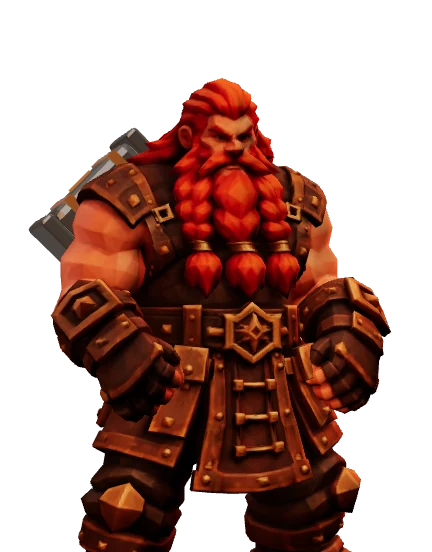
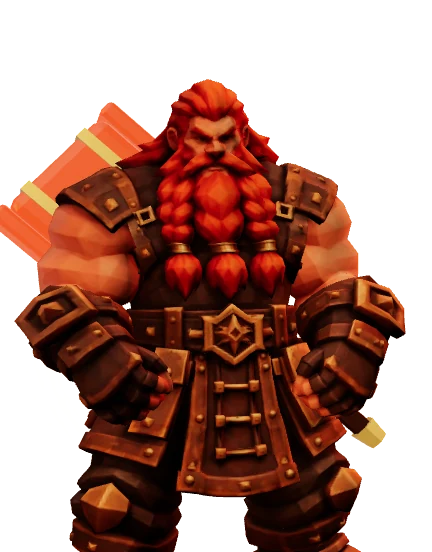
La musica de l'entrada calla en sortir o bloquejar; la foto fixa del herrero refeta del 3D (fora la maca vella); corregir o esborrar un entreno els tres primers dies; Social: la XP total en lloc d'este ano, el yunque explicat i tots els yunques amb el que costa; Tu clan amb el yunque; celebracio en 

diff --git a/index.html b/index.html
@@ -616,7 +616,7 @@ button.paquet{width:100%;color:var(--crema);text-align:left;font:inherit}
 .conf-nom{font-family:var(--display);font-size:24px;overflow-wrap:anywhere}
 .conf-av{width:82px;height:82px;border-radius:50%;object-fit:cover;background:#15110e;border:2px solid #c57b37}
 .clan-perfil{justify-self:start;padding:6px 0;border:0;background:none;color:var(--crema);font:700 16px var(--text);text-align:left;text-decoration:underline;text-decoration-color:rgba(255,181,94,.4);text-underline-offset:4px}
-.mini-clan{width:100%;border:0;background:none;color:var(--crema);font:inherit;cursor:pointer}
+.mini-clan{width:100%;color:var(--crema);font:inherit;cursor:pointer}
 .mini-clan .gran{margin:auto 0 0}
 .mini-clan .fantasma .gran{opacity:.25;font-size:44px;margin:auto}
 .seg-llast{display:inline-grid;grid-template-columns:auto auto;margin-top:8px;border:1px solid var(--bronze-fil);border-radius:8px;overflow:hidden}
@@ -626,6 +626,35 @@ button.paquet{width:100%;color:var(--crema);text-align:left;font:inherit}
 .suport{display:grid;gap:8px;margin-top:14px;padding-top:14px;border-top:1px solid rgba(197,123,55,.25)}
 .suport p{margin:0}
 .suport .btn{justify-self:start}
+.reg-ses{width:100%;border:0;background:none;color:inherit;font:inherit;text-align:left;cursor:pointer}
+.reg-ses svg{width:18px;height:18px;transform:rotate(-90deg);color:var(--fum)}
+.ses-ej{display:grid;gap:6px;margin-top:12px}
+.ses-ej>b{font-size:15.5px}
+.ses-z{display:inline-block;margin-right:12px;color:var(--fum);font-size:14px}
+.ses-serie{display:grid;grid-template-columns:26px 1fr 14px 1fr 40px;gap:6px;align-items:center}
+.ses-serie .camp input{height:44px;font-size:17px}
+.ses-serie .i{font-family:var(--display);font-weight:900;text-align:center;color:var(--fum)}
+.ses-serie .treu{width:40px;height:40px;border-radius:8px;border:1px solid var(--bronze-fil);background:#0f0d0c;color:var(--fum);display:grid;place-items:center}
+.yunque-boto{padding:0;border:0;background:none;cursor:pointer}
+.perfil-rang small+small{display:block;margin-top:2px}
+.yunques-llista{display:grid;gap:6px}
+.yunque-fila{display:grid;grid-template-columns:48px minmax(0,1fr) auto;gap:10px;align-items:center;padding:6px 8px;border-radius:10px}
+.yunque-fila img{width:48px;height:48px;object-fit:contain;filter:drop-shadow(0 2px 3px rgba(0,0,0,.6))}
+.yunque-fila span{display:grid;gap:1px}
+.yunque-fila small{color:var(--fum);font-size:12.5px;line-height:1.35}
+.yunque-fila.yunque-meu{box-shadow:inset 0 0 0 1px #f0a050;background:rgba(179,32,10,.18)}
+.mini-clan .yunque.mini-y{width:40px;height:40px;margin:6px auto 0}
+.pujada-yunque{position:relative;display:grid;place-items:center;height:210px;margin:10px 0 4px}
+.pujada-yunque img{position:relative;width:190px;height:190px;object-fit:contain;filter:drop-shadow(0 8px 16px rgba(0,0,0,.7));animation:pujaYunque 1.3s cubic-bezier(.2,1.5,.4,1) .25s both}
+.pujada-llum{position:absolute;inset:0;margin:auto;width:240px;height:240px;border-radius:50%;background:radial-gradient(circle,rgba(255,200,90,.75),rgba(255,120,30,.25) 45%,transparent 70%);animation:pujaLlum 1.6s ease-out .2s both}
+@keyframes pujaYunque{0%{transform:scale(.15) rotate(-28deg);opacity:0;filter:brightness(4) drop-shadow(0 0 0 transparent)}55%{transform:scale(1.18) rotate(7deg);opacity:1}100%{transform:scale(1) rotate(0);filter:brightness(1) drop-shadow(0 8px 16px rgba(0,0,0,.7))}}
+@keyframes pujaLlum{0%{transform:scale(.2);opacity:0}40%{opacity:1}100%{transform:scale(1.25);opacity:.55}}
+.pujada-pos{display:flex;align-items:center;justify-content:center;gap:22px;margin:18px 0 8px;font-family:var(--display);font-weight:900}
+.pujada-pos .de{font-size:40px;color:var(--fum);animation:pujaDe .7s ease-out .3s both}
+.pujada-pos .fletxa{flex:none;width:40px;height:24px;color:#f0a050;animation:pujaDe .5s ease-out .6s both}
+.pujada-pos .a{margin-left:10px;font-size:72px;animation:pujaYunque 1.1s cubic-bezier(.2,1.5,.4,1) .75s both}
+@keyframes pujaDe{0%{opacity:0;transform:translateY(12px)}100%{opacity:1;transform:none}}
+@media (prefers-reduced-motion:reduce){.pujada-yunque img,.pujada-llum,.pujada-pos *{animation:none}}
 /* ---- l'or i la botiga ---- */
 /* el comptador d'or, dret: la moneda a dalt i el número a sota, perquè càpiga al racó sense tocar el logo */
 .boto-or{--x:7px;--v:1.5px;position:absolute;left:4px;top:calc(8px + env(safe-area-inset-top,0px));z-index:5;display:grid;justify-items:center;gap:1px;min-width:44px;padding:5px 4px 4px;
@@ -2034,7 +2063,9 @@ const Efectos = (() => {
       volum(amb, 0.22);
       if (amb.paused) { const p = amb.play(); if (p && p.catch) p.catch(() => {}); }
     }
-    return { posa: (m, des) => { posa(m, des); setTimeout(ambient, 700); }, para: () => { para(); ambient(); }, seguent, sona, ambient,
+    // En sortir de l'app o bloquejar el mòbil sense entreno: ni música ni ambient (l'Albert, 26-09-2026 nit)
+    function silenci() { para(); apaga(amb); }
+    return { posa: (m, des) => { posa(m, des); setTimeout(ambient, 700); }, para: () => { para(); ambient(); }, silenci, seguent, sona, ambient,
       hiHa: m => llista(m).length > 0, titol: () => (ordre.length && el && el.src ? titol(ordre[i]) : "") };
   })();
   // L'hàptica. A l'Android, navigator.vibrate. A l'iPhone Safari no en té: des de l'iOS 17.4 un
@@ -3494,6 +3525,13 @@ const YUNQUES = [[0, "madera", "Madera"], [100, "piedra", "Piedra"], [250, "cobr
   [700, "acero", "Acero"], [800, "oro", "Oro"], [880, "obsidiana", "Obsidiana"], [940, "criselefantino", "Criselefantino"], [980, "estelar", "Estelar"]];
 const yunqueDe = p => { if (p == null) return null; let y = YUNQUES[0]; YUNQUES.forEach(t => { if (p >= t[0]) y = t; }); return { id: y[1], nom: y[2], des: y[0] }; };
 const imgYunque = (p, cls = "") => { const y = yunqueDe(p); return y ? `<img class="yunque ${cls}" src="${ACTIUS}yunques/${y.id}.webp" alt="Rango ${y.nom}" title="${y.nom}">` : ""; };
+function fullYunques() {
+  const so = soc(), p = so.yo && so.yo.poder, meu = yunqueDe(p);
+  const seg = p == null ? null : YUNQUES.find(t => t[0] > p);
+  return `<p style="margin-top:0">Tu yunque sale de tu <b>poder</b>: en cada ejercicio comparamos lo que levantas <b>para tu peso</b> (la fuerza relativa) con lo de todos los que lo hacen en KLONK, y el poder es la media de esos puestos, de 0 a 1000. Por eso alguien ligero que levanta mucho para lo que pesa puede estar muy arriba.</p>
+    ${p != null && seg ? `<p class="or" style="margin:0 0 10px"><b>Te faltan ${n0(seg[0] - p)} de poder para ${seg[2]}.</b></p>` : ""}
+    <div class="yunques-llista">${YUNQUES.map(([des, id, nom], k) => `<div class="yunque-fila${meu && meu.id === id ? " yunque-meu" : ""}"><img src="${ACTIUS}yunques/${id}.webp" alt=""><span><b>${nom}</b><small>${des ? `Desde ${des} de poder: más fuerte que ${Math.round(des / 10)} de cada 100 de KLONK, para su peso` : "Al empezar"}</small></span>${meu && meu.id === id ? '<small class="or">El tuyo</small>' : ""}</div>`).join("")}</div>`;
+}
 const AMBITS2 = [["amigos", "Amigos"], ["gimnasio", "Mi gimnasio"], ["ciudad", "Ciudad"], ["provincia", "Provincia"], ["ccaa", "Comunidad"], ["pais", "País"], ["continente", "Continente"], ["mundo", "Mundo"]];
 const GRUPS_R = ["general", "Pecho", "Espalda", "Pierna", "Hombro", "Brazo"];
 const intent = {};
@@ -3522,17 +3560,17 @@ function filaRanking(f, so) {
    nickname, amb sol·licitud i acceptació («no puc buscar el nom i enviar sol·licitud? I que accepti?»). */
 const tabSoc = () => S.ui.socTab || "rank";
 function capSocial(so) {
-  const yo = so.yo, gim = yo && yo.gimnas, dg = diesGym(), any = Stats.diasAno(S);
+  const yo = so.yo, gim = yo && yo.gimnas, dg = diesGym();
   let rang = "";
   if (so.participa && gim) {
     const y = yunqueDe(yo.poder), dif = yo.poder != null && yo.poder_abans != null ? yo.poder - yo.poder_abans : null;
-    rang = `<div class="perfil-rang">${y ? `${imgYunque(yo.poder, "gran")}<span><b class="or">${y.nom}</b><small class="num">Poder ${n0(yo.poder)}${dif ? ` <span class="${dif > 0 ? "puja" : "baixa"}">${dif > 0 ? "+" : ""}${n0(dif)}</span>` : ""}</small></span>`
-      : sessio && sessio.salut ? `<small>Termina un entreno para tener rango de fuerza.</small>`
+    rang = `<div class="perfil-rang">${y ? `<button class="yunque-boto" data-accion="soc-yunques" aria-label="Tu yunque: ${y.nom}. Ver todos">${imgYunque(yo.poder, "gran")}</button><span><b class="or">${y.nom}</b><small class="num">Poder ${n0(yo.poder)}${dif ? ` <span class="${dif > 0 ? "puja" : "baixa"}">${dif > 0 ? "+" : ""}${n0(dif)}</span>` : ""}</small><small>Por tu fuerza para tu peso. <button class="enllac" data-accion="soc-yunques">Ver los yunques</button></small></span>`
+      : sessio && sessio.salut ? `<small>Termina un entreno para tener rango de fuerza. <button class="enllac" data-accion="soc-yunques">Ver los yunques</button></small>`
       : `<small>Sin permiso para guardar tu peso no hay rango de fuerza. <button class="enllac" data-accion="vista" data-v="ajustes">Dar permiso en Ajustes</button></small>`}</div>`;
   }
   return `<div class="panel pad perfil-cap">${avatar((S.personaje || {}).tipo, Stats.experiencia(S).nivel, "gran")}
     <div class="perfil-dades"><b class="perfil-nick">${esc(nomHeroi())}</b>${gim ? `<small class="perfil-gim">${esc(gim.nom)}</small>` : ""}
-      <div class="perfil-fila"><span>${flama(true)}<b class="num">${dg.dies}</b> días de gym</span><span>${flama(any > 0)}<b class="num">${any}</b> este año</span></div></div>${rang}</div>`;
+      <div class="perfil-fila"><span>${flama(true)}<b class="num">${dg.dies}</b> ${dg.dies === 1 ? "día" : "días"} de gym</span><span><b class="num">${n0(Stats.experiencia(S).xp)}</b> XP en total</span></div></div>${rang}</div>`;
 }
 function vistaSocial() {
   const so = soc(), yo = so.yo, gim = yo && yo.gimnas;
@@ -3611,7 +3649,36 @@ function miniClan() {
   const r = rr && rr.yo ? rr : rd && rd.yo ? rd : null;
   if (!rr && !rd) return '<div class="buit">Cargando…</div>';
   if (!r || r.total <= 1) return '<div class="buit">Añade a alguien a tu clan</div>';
-  return `<div class="gran num">${r.yo.pos}.º</div><div class="dada">de ${r.total}, en ${r === rr ? "fuerza" : "días"}</div>`;
+  return `${so.yo && so.yo.poder != null ? imgYunque(so.yo.poder, "mini-y") : ""}<div class="gran num">${r.yo.pos}.º</div><div class="dada">de ${r.total}, en ${r === rr ? "fuerza" : "días"}</div>`;
+}
+// Després d'un entreno: si has pujat de yunque o de lloc al rànquing del clan, una celebració pròpia. Es mira quan el
+// servidor ha tornat el poder nou; si el resum encara és obert, s'espera que es tanqui.
+async function miraPujada(abans) {
+  const yo = await sincronitza(); if (!yo) return;
+  const pujades = [], ya = yunqueDe(abans.poder), yd = yunqueDe(yo.poder);
+  if (yd && (!ya || YUNQUES.findIndex(t => t[1] === yd.id) > YUNQUES.findIndex(t => t[1] === ya.id))) pujades.push({ t: "yunque", y: yd, poder: yo.poder });
+  try {
+    const r = await api("GET", "/ranking?metrica=rango&ambit=amigos&grupo=general");
+    S.social = { ...soc(), rank: { ...soc().rank, "rango|amigos|general": { ...r, at: Date.now() } } };
+    if (abans.pos && r.yo && r.yo.pos < abans.pos && r.total > 1) pujades.push({ t: "clan", de: abans.pos, a: r.yo.pos, total: r.total });
+  } catch (e) {}
+  if (!pujades.length) return;
+  S.ui.pujades = [...(S.ui.pujades || []), ...pujades]; guardar();
+  if (!$("#celebra").innerHTML) mostraPujada();
+}
+function mostraPujada() {
+  const p = (S.ui.pujades || []).shift(); if (!p) return false;
+  guardar();
+  if (p.t === "yunque") {
+    setTimeout(() => { if (!Efectos.suena("cofre")) Efectos.suena("fanfarria"); Efectos.lluvia(1.3); Efectos.vibra([30, 40, 60]); }, 250);
+    celebra(`<div class="gran or entra-gran">¡NUEVO YUNQUE!</div><div class="pujada-yunque"><i class="pujada-llum"></i><img src="${ACTIUS}yunques/${p.y.id}.webp" alt="${p.y.nom}"></div>
+      <div class="gran or" style="font-size:32px">${p.y.nom}</div><div class="sub">Poder ${n0(p.poder)}: tu fuerza para tu peso ha subido de nivel.</div>`, "A LA FRAGUA");
+  } else {
+    setTimeout(() => { Efectos.suena("triar"); Efectos.lluvia(0.8); Efectos.vibra([20, 30, 40]); }, 250);
+    celebra(`<div class="gran or entra-gran">¡SUBES EN TU CLAN!</div><div class="pujada-pos"><span class="num de">${p.de}.º</span><svg class="fletxa" viewBox="0 0 40 24" width="40" height="24" aria-hidden="true"><path d="M2 12h32M24 3l10 9-10 9" fill="none" stroke="currentColor" stroke-width="3.2" stroke-linecap="round" stroke-linejoin="round"/></svg><span class="num or a">${p.a}.º</span></div>
+      <div class="sub">de ${p.total} en fuerza. <button class="enllac" data-accion="inici-clan">Ver el ranking</button></div>`, "A LA FRAGUA");
+  }
+  return true;
 }
 // El buscador del clan (l'Albert, 26-09-2026 nit: «autocompletar i buscar si existeix; s'ha de confirmar que li envies
 // a algú»): mentre escrius, si el nickname existeix i, a sota, els adults amb perfil públic que comencen així. Els menors
@@ -3749,6 +3816,7 @@ async function accioSocial(acc, b) {
       S.ui.socTab = b.dataset.t; S.ui.clanTreu = null; guardar(); render();
       if (b.dataset.t === "clan") { intent.clan = Date.now(); carregaClan(false); }
       return true;
+    case "soc-yunques": obreFull(fullYunques(), "Los yunques"); return true;
     case "soc-tria": S.ui.socTria = true; guardar(); render(); return true;
     case "soc-tria-no": S.ui.socTria = false; guardar(); render(); window.scrollTo({ top: 0 }); return true;
     case "soc-gims": if (so.yo && so.yo.gimnas && so.participa) S.ui.socTab = "gimnasios"; else S.ui.socTria = true; veure("social"); return true;
@@ -3991,7 +4059,7 @@ async function accioGimnasos(acc, b) {
 // Els gestos d'aquí són asíncrons: el despatxador diu que són seus a l'acte i els deixa córrer.
 const ACC_SOCIAL = new Set(["social-alta", "so-vis", "social-metrica", "social-ambit", "social-grup", "social-perfil", "social-surt", "social-vis",
   "soc-tab", "soc-tria", "soc-tria-no", "soc-gims", "clan-accepta", "clan-rebutja", "clan-cancela", "clan-treu", "clan-treu-no", "clan-treu-si", "clan-comparteix",
-  "clan-confirma", "clan-envia-conf", "clan-conf-no"]);
+  "clan-confirma", "clan-envia-conf", "clan-conf-no", "soc-yunques"]);
 const ACC_GIM = new Set(["gim-busca", "gim-fitxa", "gim-jo", "gim-mio", "gim-nou", "gim-adreca"]);
 /* ---- reservar el material amb la talla (l'Albert, 26-09-2026: «que la gent pugui reservar una ja mola, no? Amb la
    seva talla?»). No es paga res: és per saber quantes en vol la gent, i de quina talla, abans de fer-ne. ---- */
@@ -4853,7 +4921,7 @@ function vistaEntreno() {
         ${ob ? `<div class="dia-prev">${dd.ej.map(e => { const c = cfgEj(e[0], e[1]); return `<div class="ej-prev">${fotoEj(e[0]) ? `<img src="${fotoEj(e[0])}" alt="" loading="lazy" width="40" height="40">` : '<span class="sense-foto"></span>'}<span>${esc(e[0])}</span><small class="num">${c.series} × ${c.min}-${c.max}</small></div>`; }).join("")}
           <p style="margin:10px 0 0"><button class="enllac" data-accion="rut-compartir-dia" data-id="${r.id}" data-dia="${n}">Compartir solo este día</button></p></div>` : ""}
       </div>`; }).join("")}
-    ${fetes.length ? `<section class="seccio"><h2>Últimos entrenos</h2><div class="panel pad">${fetes.map(x => `<div class="reg"><div><div>Día ${x.dia}, ${esc((x.dt || (RUTINA[x.dia - 1] || {}).t || "").toLowerCase())}</div><div class="d">${fechaLarga(x.fecha)}</div></div><div class="num">${x.ej.reduce((a, e) => a + e.sets.filter(z => z.ok).length, 0)} series</div><span></span></div>`).join("")}</div></section>` : ""}`;
+    ${fetes.length ? `<section class="seccio"><h2>Últimos entrenos</h2><div class="panel pad">${fetes.map(x => `<button class="reg reg-ses" data-accion="ses-obre" data-id="${x.id}"><div><div>Día ${x.dia}, ${esc((x.dt || (RUTINA[x.dia - 1] || {}).t || "").toLowerCase())}</div><div class="d">${fechaLarga(x.fecha)}</div></div><div class="num">${x.ej.reduce((a, e) => a + e.sets.filter(z => z.ok).length, 0)} series</div>${I_BAIXA}</button>`).join("")}</div></section>` : ""}`;
   }
   const d = { t: s.dt || (RUTINA[s.dia - 1] || {}).t || "" };
   const fetsEj = s.ej.filter(e => e.sets.length && e.sets.every(z => z.ok)).length;
@@ -4876,6 +4944,31 @@ function vistaEntreno() {
   h += `<div style="margin-top:20px">${botoForja('data-accion="terminar"', "TERMINAR ENTRENO", "Forja lo que has hecho")}</div>
     <p style="text-align:center;margin-top:14px"><button class="btn marc" data-accion="descartar">Descartar este entreno</button></p>`;
   return h;
+}
+
+/* ---- un entreno fet: mirar-lo, i els tres primers dies, corregir-lo o esborrar-lo (l'Albert, 26-09-2026 nit: «com puc
+   editar o eliminar un entreno anterior? S'ha de poder durant uns dies»). L'experiència, l'or i les gràfiques surten
+   dels entrenos, o sigui que es recalculen soles. ---- */
+const DIES_CORREGIR = 3;
+const esCorregible = s => s && s.fin && Date.now() - s.fin < DIES_CORREGIR * 864e5;
+function fullSessio(id) {
+  const s = S.ses.find(x => x.id === id); if (!s) return '<p class="suau">Ese entreno ya no está.</p>';
+  const edita = S.ui.sesEdita === id && esCorregible(s), fets = s.ej.map((e, i) => ({ e, i })).filter(({ e }) => e.sets.some(z => z.ok));
+  const titol = `<p style="margin:0"><b>Día ${s.dia}, ${esc((s.dt || (RUTINA[s.dia - 1] || {}).t || "").toLowerCase())}</b><br><span class="suau petit">${fechaLarga(s.fecha)}</span></p>`;
+  const cos = fets.map(({ e, i }) => `<div class="ses-ej"><b>${esc(e.n)}</b>${e.sets.map((z, j) => !z.ok ? "" : edita
+      ? `<div class="ses-serie"><span class="i">${j + 1}</span>${e.x === "lastre" ? `<label class="camp"><input inputmode="decimal" data-ses-kg="${i}-${j}" value="${fmt(z.kg || 0)}" aria-label="Lastre"><span class="u">+kg</span></label>` : `<label class="camp"><input inputmode="decimal" data-ses-kg="${i}-${j}" value="${fmt(z.kg)}" aria-label="Kilos"><span class="u">kg</span></label>`}<span class="x">×</span><label class="camp"><input inputmode="numeric" data-ses-reps="${i}-${j}" value="${z.reps ?? ""}" aria-label="Repeticiones"><span class="u">rep</span></label><button class="treu" data-accion="ses-treu-serie" data-i="${i}" data-j="${j}" aria-label="Quitar la serie ${j + 1}">${I_X}</button></div>`
+      : `<span class="ses-z num">${e.x === "lastre" ? (z.kg ? `+${fmt(z.kg)} kg` : "tu peso") : `${fmt(z.kg || 0)} kg`} × ${z.reps}</span>`).join("")}</div>`).join("") || '<p class="suau">Sin series hechas.</p>';
+  if (!esCorregible(s)) return `${titol}${cos}<p class="suau petit">Solo se pueden cambiar los entrenos de los últimos ${DIES_CORREGIR} días.</p>`;
+  if (S.ui.sesEsborra) return `${titol}<p>¿Borrar este entreno? Se quitan también la experiencia, el oro y el día de gym que te dio.</p>
+    <div class="fila envolta"><button class="btn clar marc" data-accion="ses-esborra-si" data-id="${id}">SÍ, BORRARLO</button><button class="btn marc" data-accion="ses-obre" data-id="${id}">No</button></div>`;
+  return `${titol}${cos}${edita
+    ? `<div style="margin-top:14px">${botoForja(`data-accion="ses-desa"`, "GUARDAR", "")}</div>`
+    : `<div class="fila envolta" style="margin-top:14px"><button class="btn clar marc" data-accion="ses-edita" data-id="${id}">Corregir</button><button class="btn marc" data-accion="ses-esborra" data-id="${id}">Borrar</button></div>
+       <p class="suau petit" style="margin:8px 0 0">Puedes corregirlo o borrarlo hasta ${DIES_CORREGIR} días después.</p>`}`;
+}
+function llegeixSessio(s) {
+  document.querySelectorAll("#capa [data-ses-kg]").forEach(inp => { const [i, j] = inp.dataset.sesKg.split("-").map(Number), z = s.ej[i] && s.ej[i].sets[j], v = num(inp.value); if (z) z.kg = Number.isFinite(v) && v >= 0 ? v : z.kg; });
+  document.querySelectorAll("#capa [data-ses-reps]").forEach(inp => { const [i, j] = inp.dataset.sesReps.split("-").map(Number), z = s.ej[i] && s.ej[i].sets[j], v = num(inp.value); if (z) { if (v > 0) z.reps = Math.round(v); else z.ok = false; } });
 }
 
 /* ---------------------------------------------------------------- estadístiques */
@@ -5157,6 +5250,13 @@ let bloqueig = null;
 async function pedirPantalla() { try { if ("wakeLock" in navigator && !bloqueig) { bloqueig = await navigator.wakeLock.request("screen"); bloqueig.addEventListener("release", () => { bloqueig = null; }); } } catch (e) { bloqueig = null; } }
 function soltarPantalla() { try { bloqueig && bloqueig.release(); } catch (e) {} bloqueig = null; }
 document.addEventListener("visibilitychange", () => { if (document.visibilityState === "visible" && S.activa) pedirPantalla(); });
+// La música de l'entrada s'atura si surts de l'app o bloqueges el mòbil; la de l'entreno continua sonant (l'Albert,
+// 26-09-2026 nit). En tornar, la de l'entrada segueix on era.
+document.addEventListener("visibilitychange", () => {
+  if (activa()) return;
+  if (document.visibilityState === "hidden") Efectos.Musica.silenci();
+  else if (musicaEngegada) musica();
+});
 let tToast = null;
 function avis(txt, error = false) { if (error) { Efectos.suena("error"); Efectos.vibra([40, 60, 40]); } const t = $("#toast"); t.textContent = txt; t.hidden = false; clearTimeout(tToast); tToast = setTimeout(() => { t.hidden = true; }, 2600); }
 const aviso = avis;   // el motor l'anomena així
@@ -5289,6 +5389,12 @@ document.addEventListener("click", ev => {
   const acc = b.dataset.accion, k = hoy();
   switch (acc) {
     case "vista": veure(b.dataset.v); break;
+    case "ses-obre": S.ui.sesEdita = null; S.ui.sesEsborra = false; obreFull(fullSessio(b.dataset.id), "Entreno"); break;
+    case "ses-edita": S.ui.sesEdita = b.dataset.id; $("#capa .dins").innerHTML = fullSessio(b.dataset.id); break;
+    case "ses-treu-serie": { const s = S.ses.find(x => x.id === S.ui.sesEdita); if (!s) break; llegeixSessio(s); const e = s.ej[+b.dataset.i]; if (e) e.sets.splice(+b.dataset.j, 1); $("#capa .dins").innerHTML = fullSessio(s.id); break; }
+    case "ses-desa": { const s = S.ses.find(x => x.id === S.ui.sesEdita); if (!s) break; llegeixSessio(s); S.ui.sesEdita = null; guardarYa(); tancaFull(); render(); Efectos.suena("yunque"); avis("Entreno corregido."); break; }
+    case "ses-esborra": S.ui.sesEsborra = true; $("#capa .dins").innerHTML = fullSessio(b.dataset.id); break;
+    case "ses-esborra-si": { S.ses = S.ses.filter(x => x.id !== b.dataset.id); S.ui.sesEsborra = false; guardarYa(); tancaFull(); render(); Efectos.suena("apaga"); avis("Entreno borrado."); break; }
     case "suport-oro": S.ui.tiendaTab = "oro"; veure("tienda"); break;     // la crida de «Quiénes somos» (l'Albert: «i demana pasta allà»)
     case "ej-lastre": {
       const s = activa(), e = s && s.ej[+b.dataset.i]; if (!e) break;
@@ -5298,6 +5404,7 @@ document.addEventListener("click", ev => {
       guardar(); render(); Efectos.suena("tap"); break;
     }
     case "inici-clan": {      // la fitxa «Tu clan» de l'entrada porta al rànquing del clan (o a Social, si encara no hi ets)
+      $("#celebra").innerHTML = "";
       const so = soc();
       if (so.participa && so.yo && so.yo.gimnas) { S.ui.socTab = "rank"; S.social = { ...so, ambit: "amigos" }; }
       veure("social"); break;
@@ -5369,7 +5476,9 @@ document.addEventListener("click", ev => {
       const entrenatAhir = S.ses.some(x => x.fin && x.fecha === ahir), jaAvui = S.ses.some(x => x.fin && x.fecha === hoy());
       const series = s.ej.reduce((a, e) => a + e.sets.filter(z => z.ok && z.reps).length, 0);
       if (!series) { avis("Aún no has hecho ninguna serie."); break; }
-      terminar(); S.ui.vista = "inicio"; musica(); sincronitza();
+      const pujaAbans = { poder: (soc().yo || {}).poder, pos: ((soc().rank["rango|amigos|general"] || {}).yo || {}).pos };
+      terminar(); S.ui.vista = "inicio"; musica();
+      if (soc().participa) miraPujada(pujaAbans); else sincronitza();
       const des = Stats.experiencia(S), rDes = Stats.diasAno(S), mrDes = Stats.diasTotal(S);
       // la meta de dies de l'any: si l'ha feta avui, la seva bossa (una vegada per any)
       const any = String(new Date().getFullYear()), meta = (S.metaAny || {})[any];
@@ -5388,7 +5497,7 @@ document.addEventListener("click", ev => {
         const n = S.pendentNivell; S.pendentNivell = null; const xp = Stats.experiencia(S);
         setTimeout(() => Efectos.suena("nivell"), 150);
         celebra(`<div class="gran or">¡NIVEL ${n}!</div><div class="sub" style="font-size:18px;margin-top:10px">Ahora eres</div><div class="gran or" style="font-size:28px">${esc(xp.titulo)}</div>`, "A LA FRAGUA");
-      } else setTimeout(() => reacciona("celebra"), 120);
+      } else if (!mostraPujada()) setTimeout(() => reacciona("celebra"), 120);
       break;
     }
     case "descartar": { const s = activa(); if (s) { S.ses = S.ses.filter(x => x.id !== s.id); S.activa = null; guardar(); soltarPantalla(); pararDescanso(); render(); Efectos.suena("apaga"); musica(); avis("Entreno descartado."); } break; }
